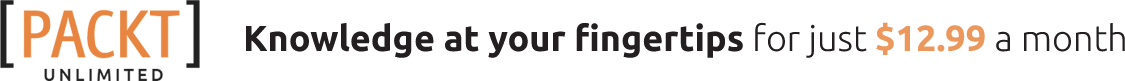
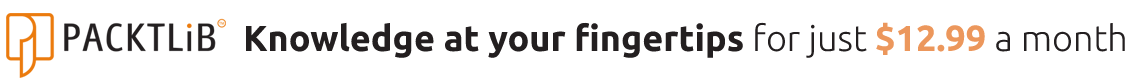
Updated branding to show Packtlib instead of Packt Unlimited

Changed region(s): [[0.0, 0.0, 0.2178, 1.0]]

diff --git a/home-search.html b/home-search.html
@@ -45,7 +45,7 @@
         <!-- Top Nav Bar -->
         <nav class="navbar navbar-default navbar-fixed-top">
             <div class="nav navbar-nav">
-              <a class="navbar-text navbar-title navbar-link hidden-nav-icon pull-left" href="#">Back to Store</a>
+              <a class="navbar-brand hidden-nav-icon pull-left" href="home.html"><img class="main-icon" src="images/pl-icon.png"/></a>
               <a class="navbar-brand pull-right" href="#menu-toggle" id="menu-toggle"><i class="fa fa-bars fa-lg nav-icon"></i> </a>
             </div>
         </nav>
@@ -89,38 +89,18 @@
 
                 <div class="row">
                     <div class="col-xs-12">
-                        <div class="text-center mb30"><h3>
-                            <span class="mr5">Hi <!-- Subscribers first name here -->Oli<!-- End Subscribers first name here -->, </span>
-                            <script language="JavaScript"> 
-                                var myDate = new Date(); 
-                                  
-                                  
-                                /* hour is before noon */
-                                if ( myDate.getHours() < 12 )  
-                                { 
-                                    document.write(" what's the plan for this morning? "); 
-                                } 
-                                else  /* Hour is from noon to 5pm (actually to 5:59 pm) */
-                                if ( myDate.getHours() >= 12 && myDate.getHours() <= 17 ) 
-                                { 
-                                    document.write(" what would you like to do this afternoon? "); 
-                                } 
-                                else  /* the hour is after 5pm, so it is between 6pm and midnight */
-                                if ( myDate.getHours() > 17 && myDate.getHours() <= 24 ) 
-                                { 
-                                    document.write(" what are you up to this evening?"); 
-                                } 
-                                else  /* the hour is not between 0 and 24, so something is wrong */
-                                { 
-                                    document.write(" what would you like to do today? "); 
-                                } 
-                                  
-                                </script>
-                         
-                         </h3> 
+                            <h3>
+                                <span class="mr5">Hi <!-- Subscribers first name here -->Oli<!-- End Subscribers first name here -->, </span>
+
+                                <!-- Time-Block: This Block prints the time of day into the view -->
+                                <script src="js/displaytime.js" language="JavaScript"></script>
+                                <!-- End Time-Block -->
+
+                            </h3> 
                         </div>
                         <form class="home-search sidebar-search">
                         <input type="text" class="form-control input-lg" placeholder="Search for a keyword or title...">
+                        <div class="text-center mt10"><a href="#" style="text-decoration: underline;">Take me back to the Store</a></div>
                     </form>   
                     </div>
                     <div class="col-sm-offset-1 col-sm-10 playlist-title"> Search Results: </div>

diff --git a/login.html b/login.html
@@ -59,7 +59,7 @@
                 </nav>
                 <!-- Login Container End-->
                 <div class=" col-xs-12">
-                    <p class="welcome-text mb20"><b> Seamless delivery of essential skills</b></p>
+                    <p class="welcome-text mb20 text-center"><b> Seamless delivery of essential skills</b></p>
                     <img class="img-responsive lazy" data-original="images/responsive-showcase.png"/>
                                         <p class="upsell-text mb15"> Subscribe today for just <strong>$12.99</strong> to gain access to more than 2000 books and videos, and unlock a huge range of solutions and ideas built for a world of disruption and innovation. </P>
 
@@ -67,7 +67,7 @@
                 </div>
             </ul>
             <div class="packt-sb-logo-holder">
-            <img class="img-responsive packt-sb-logo lazy" data-original="images/pu-logo.png"/>
+<!--             <img class="img-responsive packt-sb-logo lazy" data-original="images/pu-logo.png"/> -->
             </div>
         </div>
     <div id="page-content-wrapper" >
@@ -76,11 +76,11 @@
                 <div class="row">
                     <div class="col-lg-12">
                         <div class="col-sm-offset-3 col-sm-6">
-                        <img class="img-responsive center-block mb50 mt20 lazy" data-original="images/packt-logo.PNG"/>
+                        <img class="img-responsive center-block mb20 mt20 lazy" width="250px" data-original="images/packt-logo.PNG"/>
                         </div>
                         <div class="col-sm-12">
-                            <span class="hidden-xs login-tagline mb20"> Login to get unlimited </span>
-                            <span class="visible-xs login-tagline-small mb20"> Login to get unlimited </span>
+                            <span class="hidden-xs login-tagline mb20"> Login to unlock the library </span>
+                            <span class="visible-xs login-tagline-small mb20"> Login to unlock the library </span>
                         </div>
                             <form>
                               <div class="form-group mb0">

diff --git a/home.html b/home.html
@@ -55,7 +55,7 @@
         <!-- Top Nav Bar -->
         <nav class="navbar navbar-default navbar-fixed-top">
             <div class="nav navbar-nav">
-              <a class="navbar-text navbar-title navbar-link hidden-nav-icon pull-left" href="#">Back to Store</a>
+              <a class="navbar-brand hidden-nav-icon pull-left" href="home.html"><img class="main-icon" src="images/pl-icon.png"/></a>
               <a class="navbar-brand pull-right" href="#menu-toggle" id="menu-toggle"><i class="fa fa-bars fa-lg nav-icon"></i> </a>
             </div>
         </nav>
@@ -111,6 +111,7 @@
                         </div>
                         <form class="home-search sidebar-search">
                         <input type="text" class="form-control input-lg" placeholder="Search for a keyword or title...">
+                        <div class="text-center mt10"><a href="#" style="text-decoration: underline;">Take me back to the Store</a></div>
                     </form>   
                     </div>
                     <div class="col-sm-offset-1 col-sm-11 playlist-title"> Recently viewed: </div>

diff --git a/home-lo.html b/home-lo.html
@@ -45,7 +45,7 @@
         <!-- Top Nav Bar -->
         <nav class="navbar navbar-default navbar-fixed-top">
             <div class="nav navbar-nav">
-              <a class="navbar-text navbar-title navbar-link hidden-nav-icon pull-left" href="#">Back to Store</a>
+              <a class="navbar-brand hidden-nav-icon pull-left" href="home.html"><img class="main-icon" src="images/pl-icon.png"/></a>
               <a class="navbar-brand pull-right" href="#menu-toggle" id="menu-toggle"><i class="fa fa-bars fa-lg nav-icon"></i> </a>
             </div>
         </nav>
@@ -94,6 +94,7 @@
                         </div>
                         <form class="home-search sidebar-search">
                         <input type="text" class="form-control input-lg" placeholder="Search for a keyword or title...">
+                        <div class="text-center mt10"><a href="#" style="text-decoration: underline;">Take me back to the Store</a></div>
                     </form>   
                     </div>
 

diff --git a/index-lo.html b/index-lo.html
@@ -45,7 +45,7 @@
         <nav class="navbar navbar-default navbar-fixed-top">
 
             <div class="nav navbar-nav">
-              <a class="navbar-brand hidden-nav-icon pull-left" href="home-lo.html"><i class="fa fa-home fa-lg nav-icon"></i> </a>
+              <a class="navbar-brand hidden-nav-icon pull-left" href="home.html"><img class="main-icon" src="images/pl-icon.png"/></a>
               <a class="navbar-brand pull-right" href="#menu-toggle" id="menu-toggle"><i class="fa fa-bars fa-lg nav-icon"></i> </a>
               <p class="navbar-text navbar-title"> Learning C++ by Creating Games with UE4 </p>  
             </div>

diff --git a/for-loop.html b/for-loop.html
@@ -45,7 +45,7 @@
         <nav class="navbar navbar-default navbar-fixed-top">
 
             <div class="nav navbar-nav">
-              <a class="navbar-brand hidden-nav-icon pull-left" href="home.html"> <i class="fa fa-home fa-lg nav-icon"></i> </a>
+              <a class="navbar-brand hidden-nav-icon pull-left" href="home.html"><img class="main-icon" src="images/pl-icon.png"/></a>
               <a class="navbar-brand pull-right" href="#menu-toggle" id="menu-toggle"><i class="fa fa-bars fa-lg nav-icon"></i> </a>
               <p class="navbar-text navbar-title"> Learning C++ by Creating Games with UE4 </p>  
             </div>

diff --git a/front-page.html b/front-page.html
@@ -45,7 +45,7 @@
         <nav class="navbar navbar-default navbar-fixed-top">
 
             <div class="nav navbar-nav">
-              <a class="navbar-brand hidden-nav-icon pull-left" href="home.html"> <i class="fa fa-home fa-lg nav-icon"></i> </a>
+              <a class="navbar-brand hidden-nav-icon pull-left" href="home.html"><img class="main-icon" src="images/pl-icon.png"/></a>
               <a class="navbar-brand pull-right" href="#menu-toggle" id="menu-toggle"><i class="fa fa-bars fa-lg nav-icon"></i> </a>
               <p class="navbar-text navbar-title"> Learning C++ by Creating Games with UE4 </p>  
             </div>

diff --git a/index-search.html b/index-search.html
@@ -46,7 +46,7 @@
         <nav class="navbar navbar-default navbar-fixed-top">
 
             <div class="nav navbar-nav">
-              <a class="navbar-brand hidden-nav-icon pull-left" href="home.html"> <i class="fa fa-home fa-lg nav-icon"></i> </a>
+              <a class="navbar-brand hidden-nav-icon pull-left" href="home.html"><img class="main-icon" src="images/pl-icon.png"/></a>
               <a class="navbar-brand pull-right" href="#menu-toggle" id="menu-toggle"><i class="fa fa-bars fa-lg nav-icon"></i> </a>
               <p class="navbar-text navbar-title"> Learning C++ by Creating Games with UE4 </p>  
             </div>

diff --git a/index.html b/index.html
@@ -46,7 +46,7 @@
         <nav class="navbar navbar-default navbar-fixed-top">
 
             <div class="nav navbar-nav">
-              <a class="navbar-brand hidden-nav-icon pull-left" href="home.html"> <i class="fa fa-home fa-lg nav-icon"></i> </a>
+              <a class="navbar-brand hidden-nav-icon pull-left" href="home.html"><img class="main-icon" src="images/pl-icon.png"/></a>
               <a class="navbar-brand pull-right" href="#menu-toggle" id="menu-toggle"><i class="fa fa-bars fa-lg nav-icon"></i> </a>
               <p class="navbar-text navbar-title"> Learning C++ by Creating Games with UE4 </p>  
             </div>

diff --git a/front-page-video.html b/front-page-video.html
@@ -46,7 +46,7 @@
         <nav class="navbar navbar-default navbar-fixed-top">
 
             <div class="nav navbar-nav">
-              <a class="navbar-brand hidden-nav-icon pull-left" href="home.html"> <i class="fa fa-home fa-lg nav-icon"></i> </a>
+              <a class="navbar-brand hidden-nav-icon pull-left" href="home.html"><img class="main-icon" src="images/pl-icon.png"/></a>
               <a class="navbar-brand pull-right" href="#menu-toggle" id="menu-toggle"><i class="fa fa-bars fa-lg nav-icon"></i> </a>
               <p class="navbar-text navbar-title"> Learning MongoDB [Video] </p>  
             </div>

diff --git a/index-video.html b/index-video.html
@@ -48,7 +48,7 @@
         <nav class="navbar navbar-default navbar-fixed-top">
 
             <div class="nav navbar-nav">
-              <a class="navbar-brand hidden-nav-icon pull-left" href="home.html"> <i class="fa fa-home fa-lg nav-icon"></i> </a>
+              <a class="navbar-brand hidden-nav-icon pull-left" href="home.html"><img class="main-icon" src="images/pl-icon.png"/></a>
               <a class="navbar-brand pull-right" href="#menu-toggle" id="menu-toggle"><i class="fa fa-bars fa-lg nav-icon"></i> </a>
               <p class="navbar-text navbar-title"> Learning MongoDB [Video]</p>  
             </div>

diff --git a/css/custom-sidebar.css b/css/custom-sidebar.css
@@ -18,6 +18,10 @@ a:focus {
 .white {
   color: #ffffff;
 }
+.main-icon {
+  height: 30px;
+  margin-top: -2px;
+}
 /*Unlimited Home */
 .home-body {
   background-color: #dbdcdc;
@@ -82,7 +86,7 @@ a:focus {
 .packt-sb-logo {
   margin-right: auto;
   margin-left: auto;
-  width: 100px;
+  width: 150px;
 }
 .login-link  {
   color: #fff !important;
@@ -422,7 +426,7 @@ a:focus {
     width: 400px;
   }
   .packt-sb-logo {
-    width: 150px;
+    width: 200px;
 
   }
   .reader-container {
